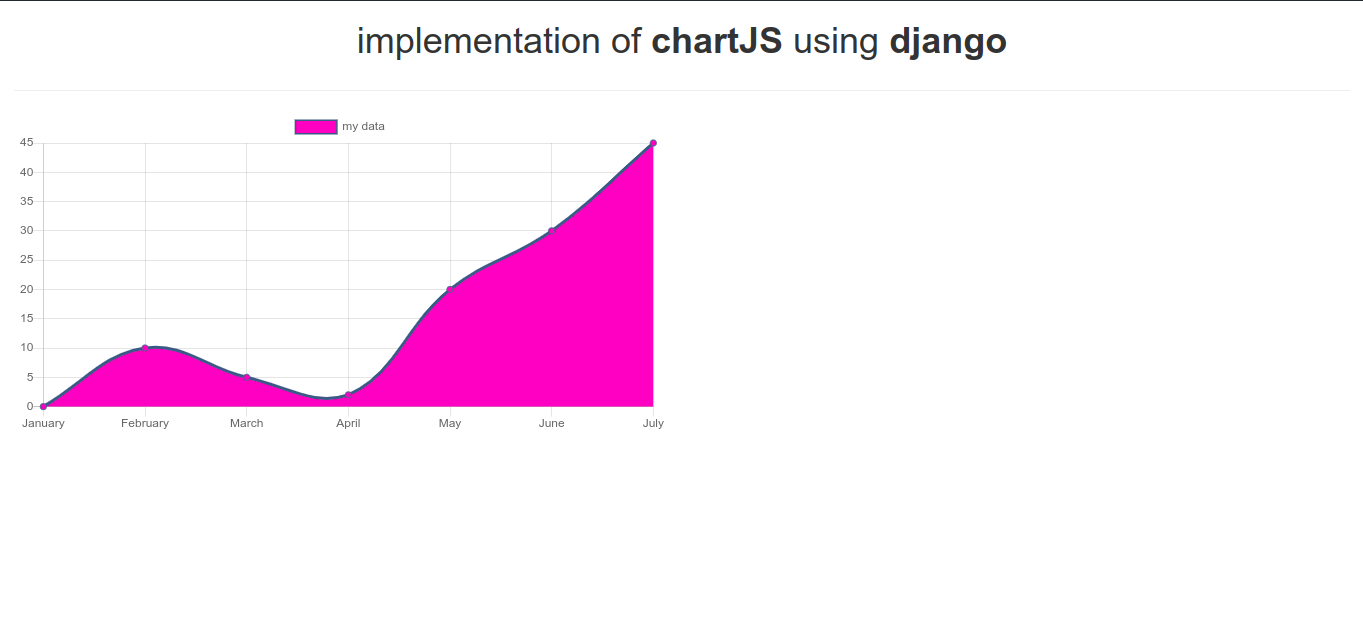
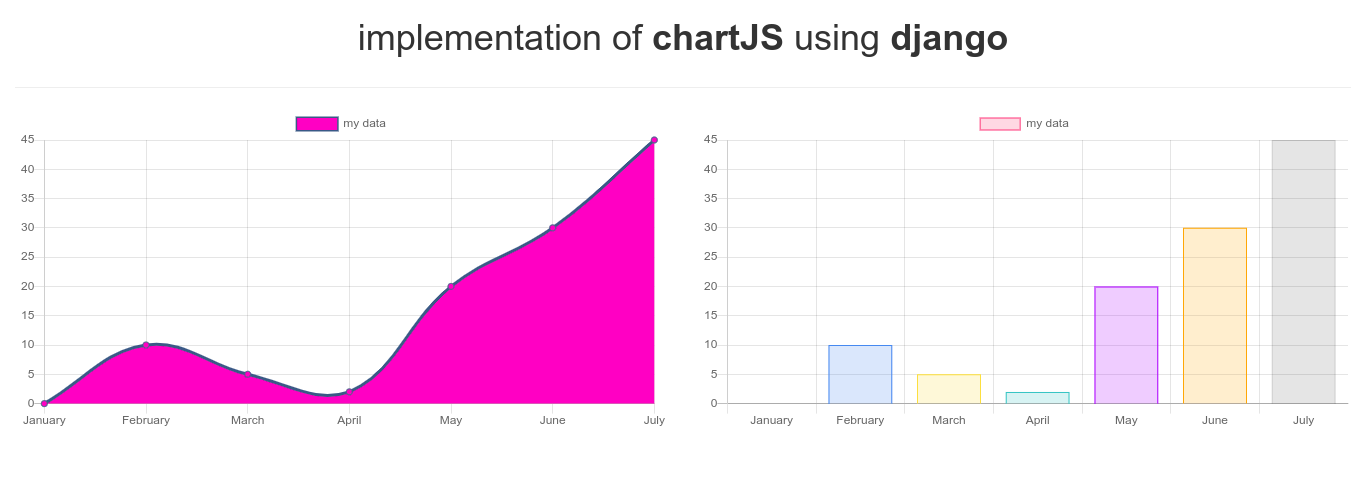
readme

diff --git a/chartjs/templates/chartjs/index.html b/chartjs/templates/chartjs/index.html
@@ -24,70 +24,111 @@
   <hr />
   <div class="row">
     <div class="col-md-6">
-      <canvas id="myChart"></canvas>
+      <canvas id="myChartline"></canvas>
+    </div>
+    <div class="col-md-6">
+      <canvas id="myChartBar"></canvas>
     </div>
   </div>
 
   <script src="https://cdn.jsdelivr.net/npm/chart.js@2.8.0"></script>
 
   <script>
-
-
     var endpoint = '/api';
 
     $.ajax({
-             method: "GET",
-             url:endpoint,
-             success: function(data){
-                 drawBarGraph(data);
-                 console.log("drawing");
-             },
-             error: function(error_data){
-               console.log(error_data);
-             }
+      method: "GET",
+      url: endpoint,
+      success: function(data) {
+        drawLineGraph(data, 'myChartline');
+        drawBarGraph(data, 'myChartBar');
+        console.log("drawing");
+      },
+      error: function(error_data) {
+        console.log(error_data);
+      }
     })
 
 
-    function drawBarGraph(data){
-                     var labels = data.labels;
-                     var chartLabel = data.chartLabel;
-                     var chartdata = data.chartdata;
-                     var ctx = document.getElementById('myChart').getContext('2d');
-                     var chart = new Chart(ctx, {
-                       // The type of chart we want to create
-                       type: 'line',
+    function drawLineGraph(data, id) {
+      var labels = data.labels;
+      var chartLabel = data.chartLabel;
+      var chartdata = data.chartdata;
+      var ctx = document.getElementById(id).getContext('2d');
+      var chart = new Chart(ctx, {
+        // The type of chart we want to create
+        type: 'line',
 
-                       // The data for our dataset
-                       data: {
-                         labels: labels,
-                         datasets: [{
-                           label: chartLabel,
-                           backgroundColor: 'rgb(255, 100, 200)',
-                           borderColor: 'rgb(55, 99, 132)',
-                           data: chartdata,
-                         }]
-                       },
+        // The data for our dataset
+        data: {
+          labels: labels,
+          datasets: [{
+            label: chartLabel,
+            backgroundColor: 'rgb(255, 100, 200)',
+            borderColor: 'rgb(55, 99, 132)',
+            data: chartdata,
+          }]
+        },
 
-                       // Configuration options go here
-                       options: {
-                                   scales: {
-                                             xAxes: [{
-                                                 display:true
-                                                    }],
-                                             yAxes: [{
-                                                 ticks: {
-                                                     beginAtZero:true
-                                                         }
-                                                     }]
-                                          }
-                                }
+        // Configuration options go here
+        options: {
+          scales: {
+            xAxes: [{
+              display: true
+            }],
+            yAxes: [{
+              ticks: {
+                beginAtZero: true
+              }
+            }]
+          }
+        }
 
-                     });
+      });
     }
 
-
-
-
+    function drawBarGraph(data, id) {
+      var labels = data.labels;
+      var chartLabel = data.chartLabel;
+      var chartdata = data.chartdata;
+      var ctx = document.getElementById(id).getContext('2d');
+      var myChart = new Chart(ctx, {
+        type: 'bar',
+        data: {
+          labels: labels,
+          datasets: [{
+            label: chartLabel,
+            data: chartdata,
+            backgroundColor: [
+              'rgba(255, 99, 132, 0.2)',
+              'rgba(54, 162, 235, 0.2)',
+              'rgba(255, 206, 86, 0.2)',
+              'rgba(75, 192, 192, 0.2)',
+              'rgba(153, 102, 255, 0.2)',
+              'rgba(255, 159, 64, 0.2)'
+            ],
+            borderColor: [
+              'rgba(255, 99, 132, 1)',
+              'rgba(54, 162, 235, 1)',
+              'rgba(255, 206, 86, 1)',
+              'rgba(75, 192, 192, 1)',
+              'rgba(153, 102, 255, 1)',
+              'rgba(255, 159, 64, 1)'
+            ],
+            borderWidth: 1
+          }]
+        },
+        options: {
+          scales: {
+            yAxes: [{
+              ticks: {
+                beginAtZero: true
+              }
+            }]
+          }
+        }
+      });
+    }
   </script>
 </body>
 
